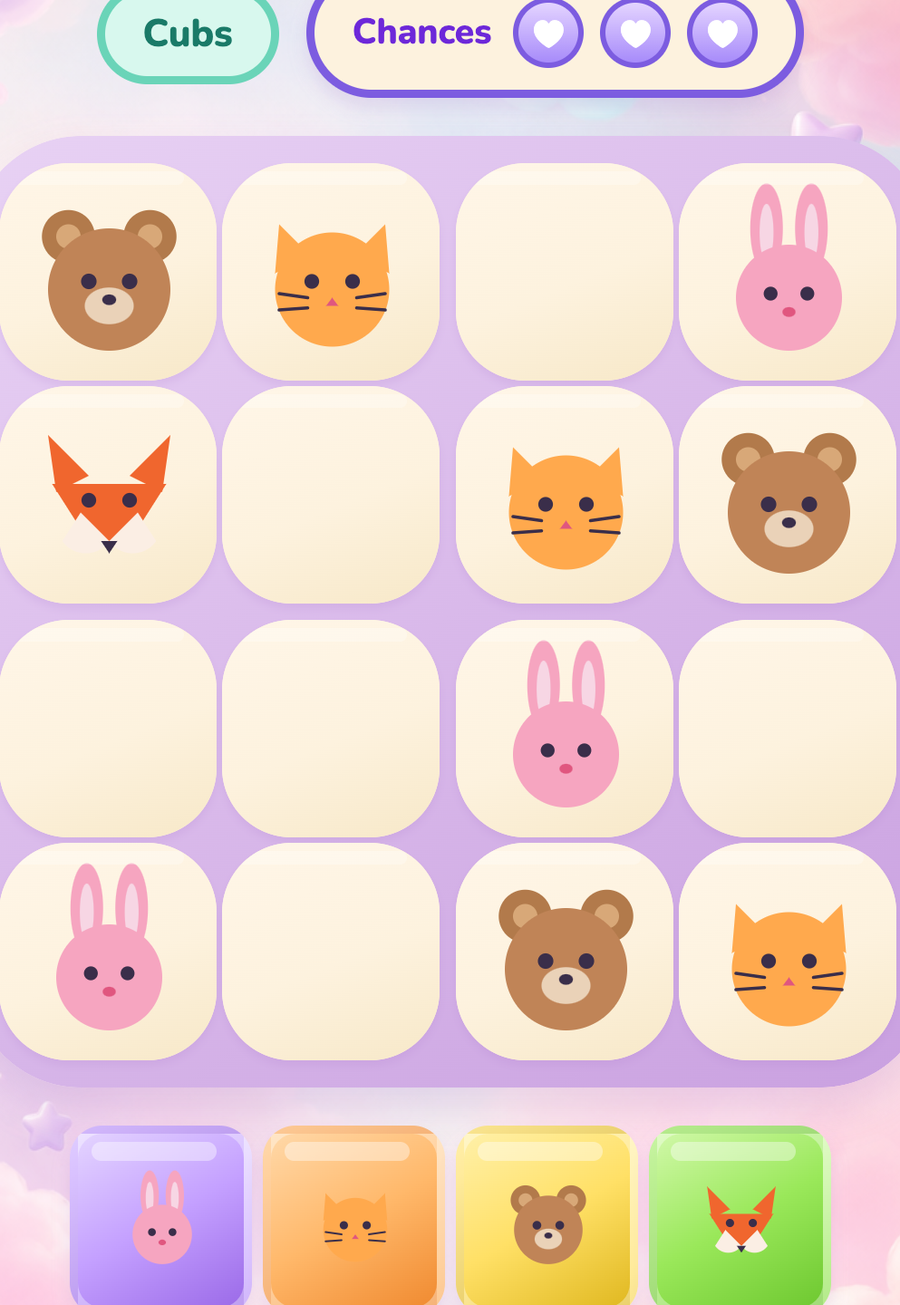
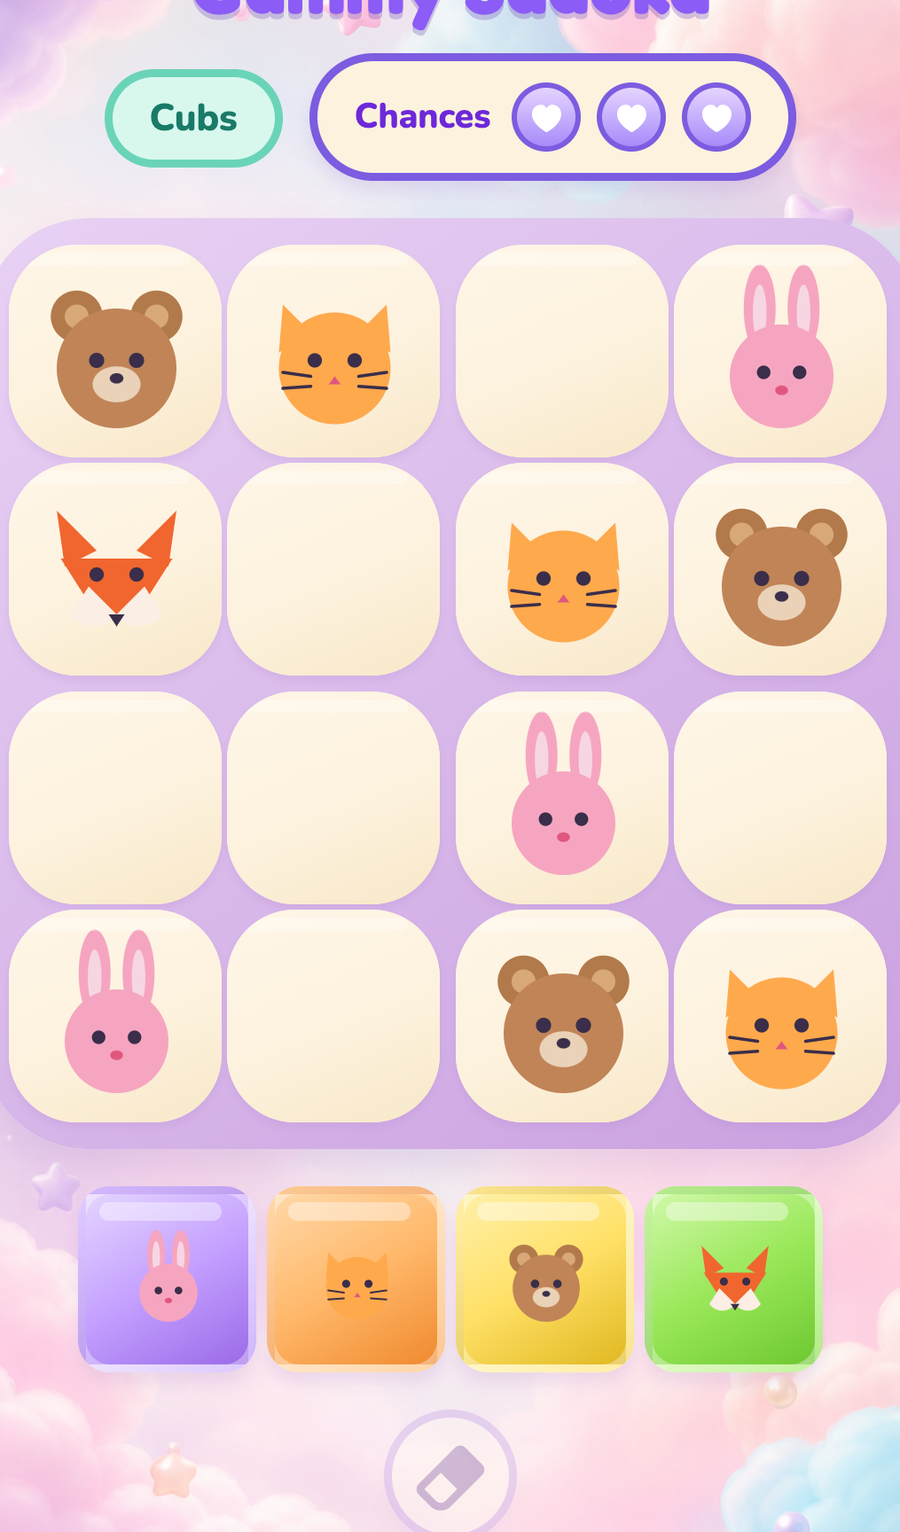
Show full playboard height on landing mode cards.
Remove forced aspect-ratio cropping and place captions under the images so Animals and Numbers previews are fully visible.

diff --git a/docs/index.html b/docs/index.html
@@ -201,34 +201,20 @@
         }
       }
       .mode {
-        position: relative;
         overflow: hidden;
         border-radius: 28px;
         border: 3px solid rgba(201, 168, 232, 0.7);
         box-shadow: 0 12px 0 rgba(140, 100, 180, 0.12);
-        background: #f3e9ff;
+        background: rgba(255, 250, 243, 0.92);
       }
       .mode img {
         display: block;
         width: 100%;
         height: auto;
-        aspect-ratio: 4 / 5;
-        object-fit: cover;
-        object-position: center 35%;
-        transition: transform 0.45s ease;
-      }
-      .mode:hover img {
-        transform: scale(1.03);
       }
       .mode-copy {
-        position: absolute;
-        left: 0;
-        right: 0;
-        bottom: 0;
-        padding: 22px 18px;
-        background: linear-gradient(180deg, transparent, rgba(59, 42, 74, 0.88));
-        color: #fff;
-        pointer-events: none;
+        padding: 18px 18px 20px;
+        color: var(--ink);
       }
       .mode-copy h3 {
         margin: 0 0 6px;
@@ -238,7 +224,7 @@
       .mode-copy p {
         margin: 0;
         font-size: 0.98rem;
-        color: rgba(255, 255, 255, 0.9);
+        color: var(--muted);
       }
 
       .contact {
